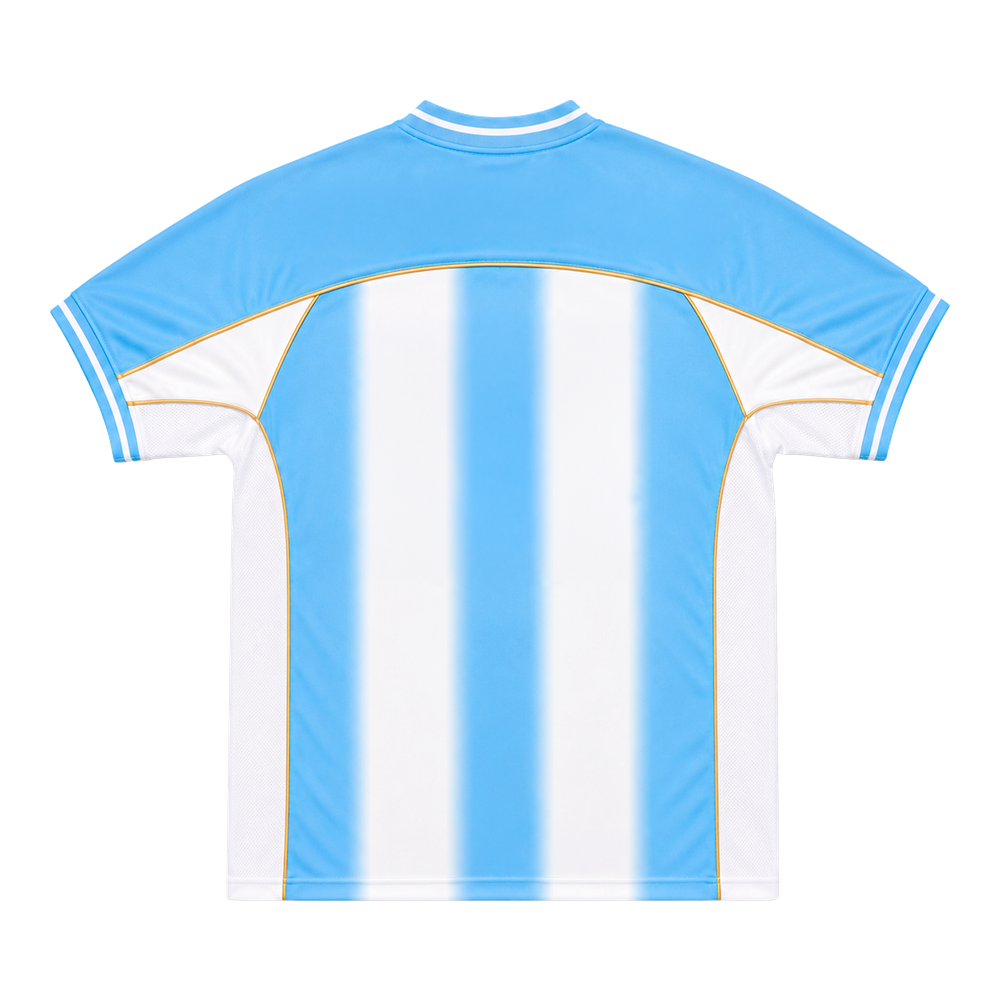
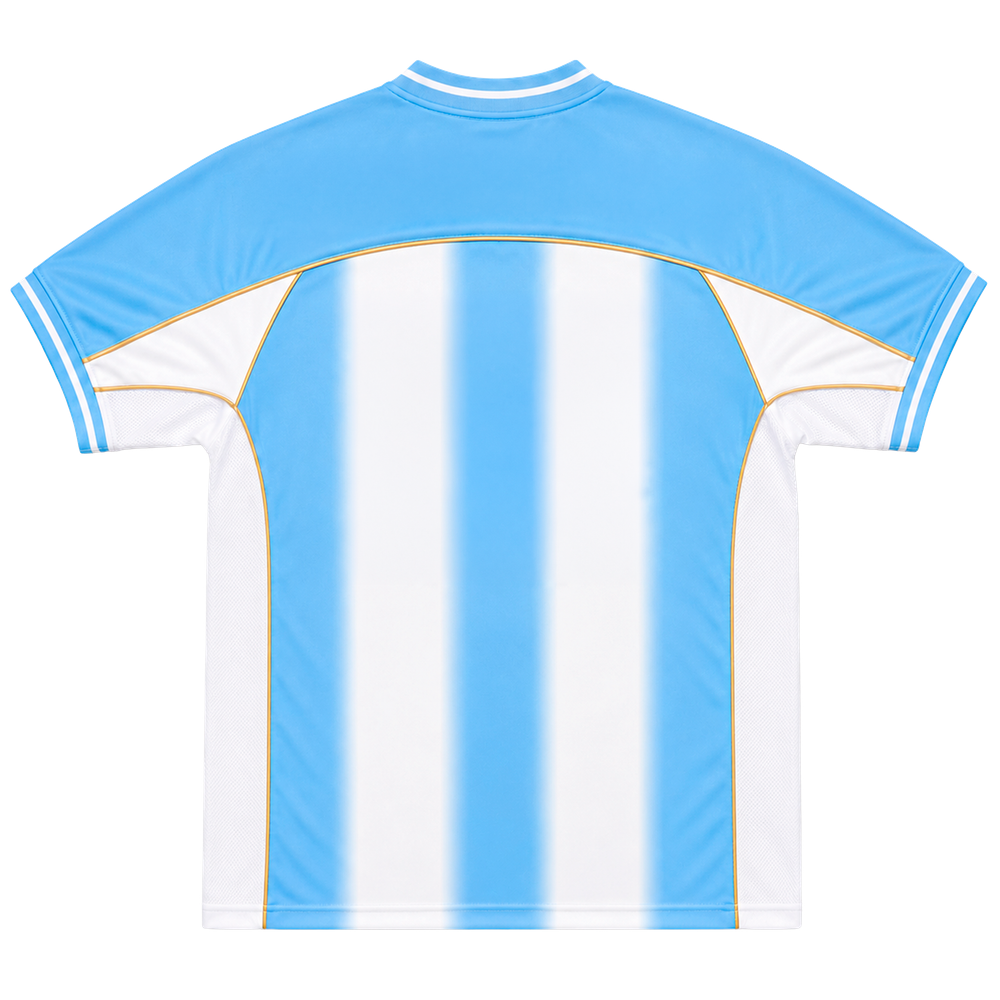
fix(jersey): ajuste de dorsal — base con zoom uniforme + nombre/numero mas grandes y arriba
- Bases preview-frente/espalda regeneradas con el mismo zoom uniforme (front y back
  exactamente al mismo tamaño; antes el recorte por contorno las dejaba distintas).
- PersonalizarClient: numero espalda mas grande (0.36/0.44) y mas arriba (y 0.37),
  nombre mas grande (0.085) y mas arriba (arco cy 1.40), numero frente mas grande (0.10) y arriba (0.43).
- Samples de galeria regenerados con esas coords.

Changed region(s): [[0.0, 0.062, 0.992, 0.93]]

diff --git a/next-app/app/personalizar/[slug]/PersonalizarClient.tsx b/next-app/app/personalizar/[slug]/PersonalizarClient.tsx
@@ -44,20 +44,20 @@ async function renderJersey(canvas: HTMLCanvasElement, view: 'espalda' | 'frente
   ctx.fillStyle = '#0a0a0a';
   if (view === 'espalda') {
     if (playerName) {
-      const fontSize = playerName.length > 10 ? Math.round(S * 0.056) : playerName.length > 7 ? Math.round(S * 0.066) : Math.round(S * 0.076);
+      const fontSize = playerName.length > 10 ? Math.round(S * 0.063) : playerName.length > 7 ? Math.round(S * 0.074) : Math.round(S * 0.085);
       ctx.font = `${fontSize}px ${FONT}`; ctx.fillStyle = '#0a0a0a';
-      drawArcText(ctx, playerName, S / 2, S * 1.54, S * 1.20, Math.round(fontSize * 0.08));
+      drawArcText(ctx, playerName, S / 2, S * 1.40, S * 1.20, Math.round(fontSize * 0.08));
     }
     if (playerNumber) {
-      const fontSize = playerNumber.length === 1 ? Math.round(S * 0.33) : Math.round(S * 0.25);
+      const fontSize = playerNumber.length === 1 ? Math.round(S * 0.44) : Math.round(S * 0.36);
       ctx.font = `${fontSize}px ${FONT}`; ctx.textAlign = 'center'; ctx.textBaseline = 'top'; ctx.fillStyle = '#0a0a0a';
-      ctx.fillText(playerNumber, S * 0.5, S * 0.43);
+      ctx.fillText(playerNumber, S * 0.5, S * 0.37);
     }
   }
   if (view === 'frente' && playerNumber) {
-    const fontSize = Math.round(S * 0.09);
+    const fontSize = Math.round(S * 0.10);
     ctx.font = `${fontSize}px ${FONT}`; ctx.textAlign = 'center'; ctx.textBaseline = 'middle'; ctx.fillStyle = '#0a0a0a';
-    ctx.fillText(playerNumber, S * 0.50, S * 0.46);
+    ctx.fillText(playerNumber, S * 0.50, S * 0.43);
   }
 }
 
